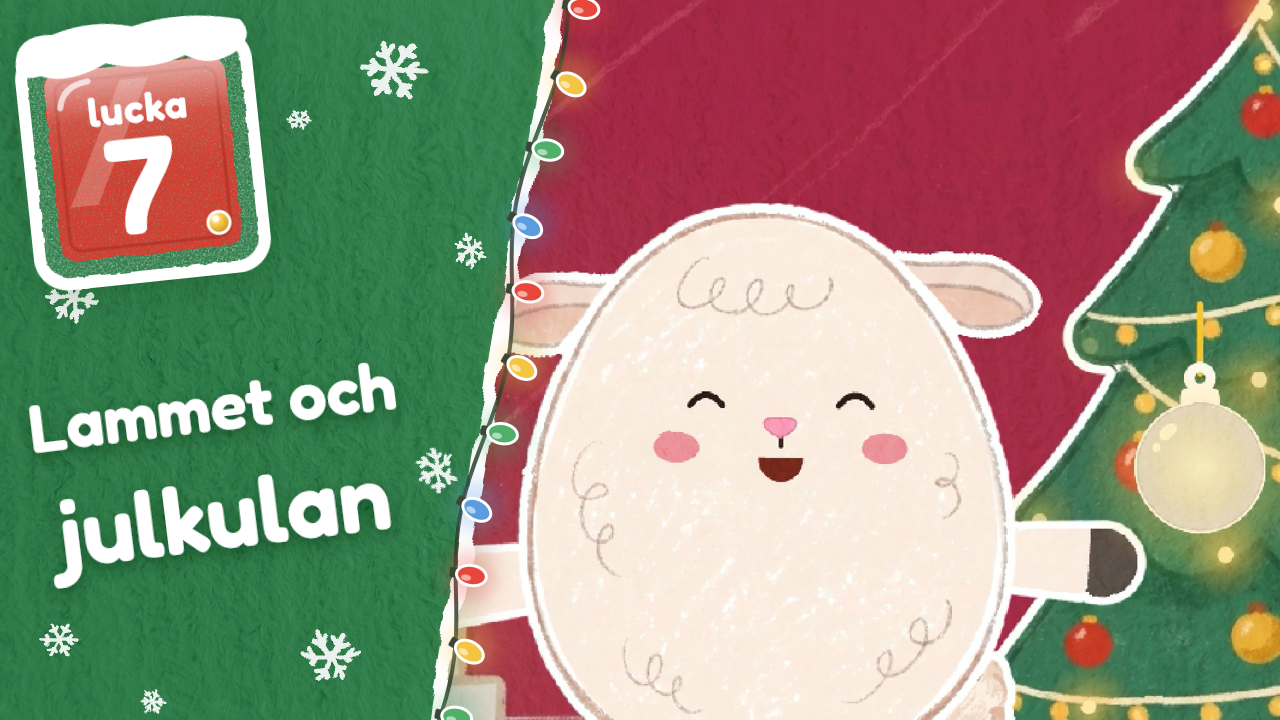
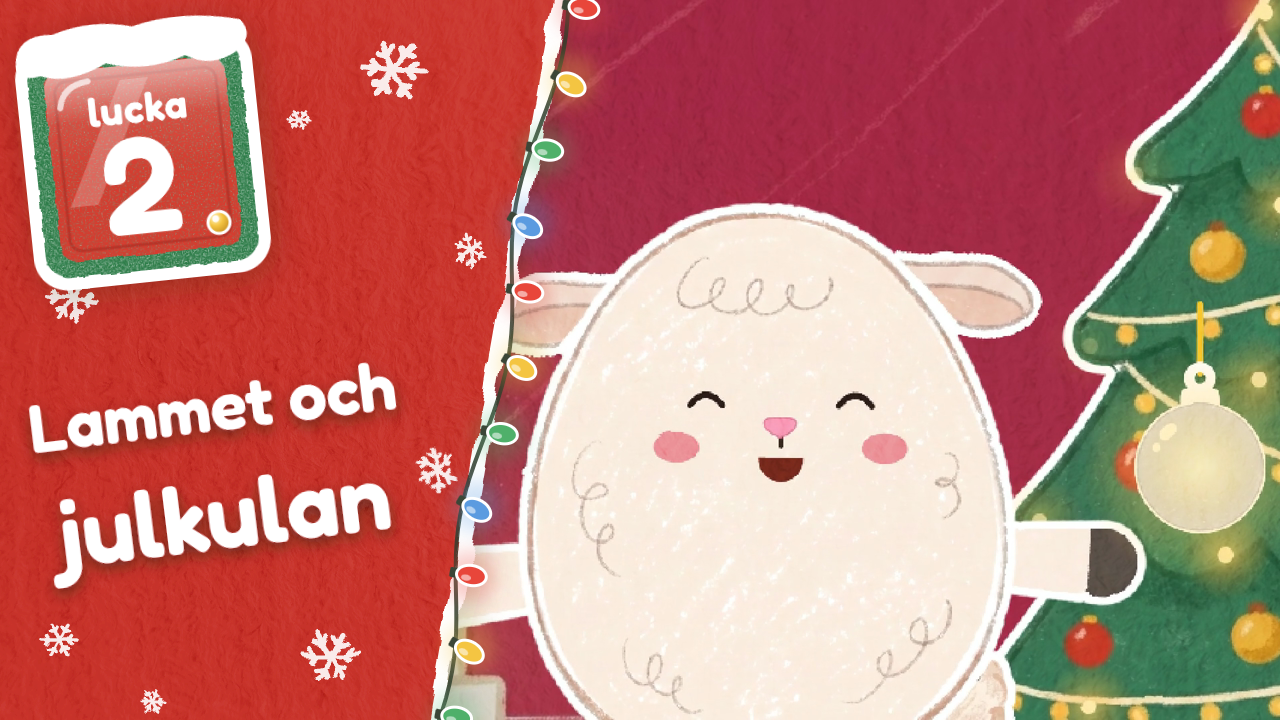
Miniatyrer för 052, 053, 054, 057 och J02 (lucka 2): färgstrimman med glada närbilder ur scenfilmerna; tiderna uppskattade från förhandsvisningarna

Changed region(s): [[0.0, 0.0, 0.4375, 1.0], [0.0625, 0.1833, 0.1562, 0.3361]]

diff --git a/verktyg/miniatyr.html b/verktyg/miniatyr.html
@@ -56,8 +56,8 @@ const MINIATYRER = [
     sv:{ tid:'2:00', titel:['Grisen','åker pulka'], yt:'Lucka 5 🛷 Grisen åker pulka | Lilla Kritans julkalender' } },
   { id:'jul-06', ut:'produktion/youtube/shorts/jul/06-katten-hittar-julklappar/thumbnail', bild:'avsnitt/035-katten-hittar-julklappar/thumbnail/miniatyr-utan-text.png', farg:'#C8332B', jul:{ lucka:6 },   // 035 Katten hittar julklappar (Sanna 2026-11-22, i stället för tittut med björnen): avsnittets egen hjältebild
     sv:{ tid:'4:15', titel:['Katten hittar','julklappar'], yt:'Lucka 6 🎁 Katten hittar julklappar | Lilla Kritans julkalender' } },
-  { id:'jul-07', ut:'produktion/youtube/shorts/jul/07-lammet-julkula/thumbnail', bild:'produktion/youtube/shorts/jul/07-lammet-julkula/thumbnail/miniatyr-utan-text.png', farg:'#2F7D4A', jul:{ lucka:7 },   // filmen 0:37 (manus v2, 2026-11-18), flyttad 160 px åt höger: lammet skrattar ensamt vid silverkulan i brasrummet (Sanna: ingen hund)
-    sv:{ tid:'2:34', titel:['Lammet och','julkulan'], yt:'Lucka 7 🎄 Lammet och julkulan | Lilla Kritans julkalender' } },
+  { id:'jul-07', ut:'produktion/youtube/shorts/jul/07-lammet-julkula/thumbnail', bild:'produktion/youtube/shorts/jul/07-lammet-julkula/thumbnail/miniatyr-utan-text.png', farg:'#C8332B', jul:{ lucka:2 },   // J02 (lucka 2 sedan 2026-11-22, jämn lucka = röd strimma): filmen 0:37 (manus v2, 2026-11-18), flyttad 160 px åt höger: lammet skrattar ensamt vid silverkulan i brasrummet (Sanna: ingen hund)
+    sv:{ tid:'2:44', titel:['Lammet och','julkulan'], yt:'Lucka 2 🎄 Lammet och julkulan | Lilla Kritans julkalender' } },
   { id:'jul-08', ut:'produktion/youtube/shorts/jul/08-katten-snogubbe/thumbnail', bild:'produktion/youtube/shorts/jul/08-katten-snogubbe/thumbnail/miniatyr-utan-text.png', farg:'#C8332B', jul:{ lucka:8 },   // 044 Katten gör en snögubbe: egen pose ur björkdungen (thumbnail/hjalte.mjs), spegelvänd, katten glad bredvid snögubben med fågeln
     sv:{ tid:'4:35', titel:['Katten och','snögubben'], yt:'Lucka 8 ⛄ Katten gör en snögubbe | Lilla Kritans julkalender' } },
   { id:'jul-09', ut:'produktion/youtube/shorts/jul/09-kaninen-badar-varmt/thumbnail', bild:'produktion/youtube/shorts/jul/09-kaninen-badar-varmt/thumbnail/miniatyr-utan-text.png', farg:'#2F7D4A', jul:{ lucka:9 },   // 041 Kaninen badar varmt: egen pose ur badet (thumbnail/hjalte.mjs), kaninen skrattar i skummet med båten bredvid
@@ -97,6 +97,15 @@ const MINIATYRER = [
     sv:{ tid:'2:40', titel:['Grisen','klär granen'], yt:'Lucka 23 🐷 Grisen klär granen | Lilla Kritans julkalender' } },
   { id:'jul-24', ut:'produktion/youtube/shorts/jul/24-julafton/thumbnail', bild:'produktion/youtube/shorts/jul/24-julafton/thumbnail/miniatyr-utan-text.png', farg:'#C8332B', jul:{ lucka:24 },   // filmen 1:41, nedskalad 0,88 och flyttad 175 px åt höger (filmbilden fyller under): lammet, kaninen med nallen och björnen vid granen
     sv:{ tid:'1:55', titel:['God','jul!'], yt:'Lucka 24 🎄 God jul! | Lilla Kritans julkalender' } },
+  // Bilderböckerna 2026-11-26: hjältebilden ur scenfilmen (--snabb, samma bild som slutrenderingen), flyttad åt höger med vänsterkanten speglad under strimman. tid uppskattad från förhandsvisningen, mät om ur slutfilmen.
+  { id:'052', bild:'avsnitt/052-zebran-klar-pa-sig/thumbnail/miniatyr-utan-text.png', farg:'#F2C12E',   // scenen 2:51, flyttad 250 px åt höger: zebran ler i närbild med gula mössan och röda halsduken; mössans gula mot den korallröda väggen
+    sv:{ tid:'4:06', titel:['Zebran','klär på sig'], yt:'Zebran klär på sig 🦓🧣 | Bilderbok för små barn | Lilla Kritan' } },   // bara svenska
+  { id:'053', bild:'avsnitt/053-leoparden-stadar/thumbnail/miniatyr-utan-text.png', farg:'#8E6BD8',   // scenen 1:50, flyttad 260 px åt höger: leoparden skrattar i närbild med lila trekanten på huvudet; trekantens lila mot den gröna väggen
+    sv:{ tid:'3:36', titel:['Leoparden','städar'], yt:'Leoparden städar 🐆🧸 | Bilderbok för små barn | Lilla Kritan' } },   // bara svenska
+  { id:'054', bild:'avsnitt/054-lammet-badar/thumbnail/miniatyr-utan-text.png', farg:'#E0453A', hjalte:[1.35, 870, 560],   // scenen 1:28, flyttad 110 px åt höger, ×1,35 så att ansiktet syns i 168 px: lammet ler i badkaret med ankan och båten; båtens röda mot den turkosa väggen
+    sv:{ tid:'4:27', titel:['Lammet','badar'], yt:'Lammet badar 🐑🛁 | Bilderbok för små barn | Lilla Kritan' } },   // bara svenska
+  { id:'057', bild:'avsnitt/057-katten-tvattar-handerna/thumbnail/miniatyr-utan-text.png', farg:'#EE5FA4',   // scenen 1:57, flyttad 240 px åt höger: katten skrattar med skumskägg vid handfatet; rosa (tvålen och handduken) mot den turkosa väggen
+    sv:{ tid:'4:00', titel:['Katten','tvättar','tassarna'], yt:'Katten tvättar händerna 🐱🧼 | Bilderbok för små barn | Lilla Kritan' } },   // bara svenska
   { id:'034', bild:'avsnitt/034-musen-pyntar-granen/thumbnail/miniatyr-utan-text.png', farg:'#E0453A', hjalte:[1.3, 600, 640],   // filmen 3:35: musen ler framför den tända granen med röda, gula och blå kulor; kulans röda mot den blå väggen
     sv:{ tid:'3:48', titel:['Pynta','granen'], yt:'Musen pyntar granen 🐭🎄 | Djuren hittar på! – hjälp musen att hitta kulan | Lilla Kritan' } },   // bara svenska
   { id:'035', bild:'avsnitt/035-katten-hittar-julklappar/thumbnail/miniatyr-utan-text.png', farg:'#D93A2F', hjalte:[1.7, 820, 544],   // filmen 3:52: katten med tomteluva drar pulkan med paketen; luvans och paketens röda mot snön
